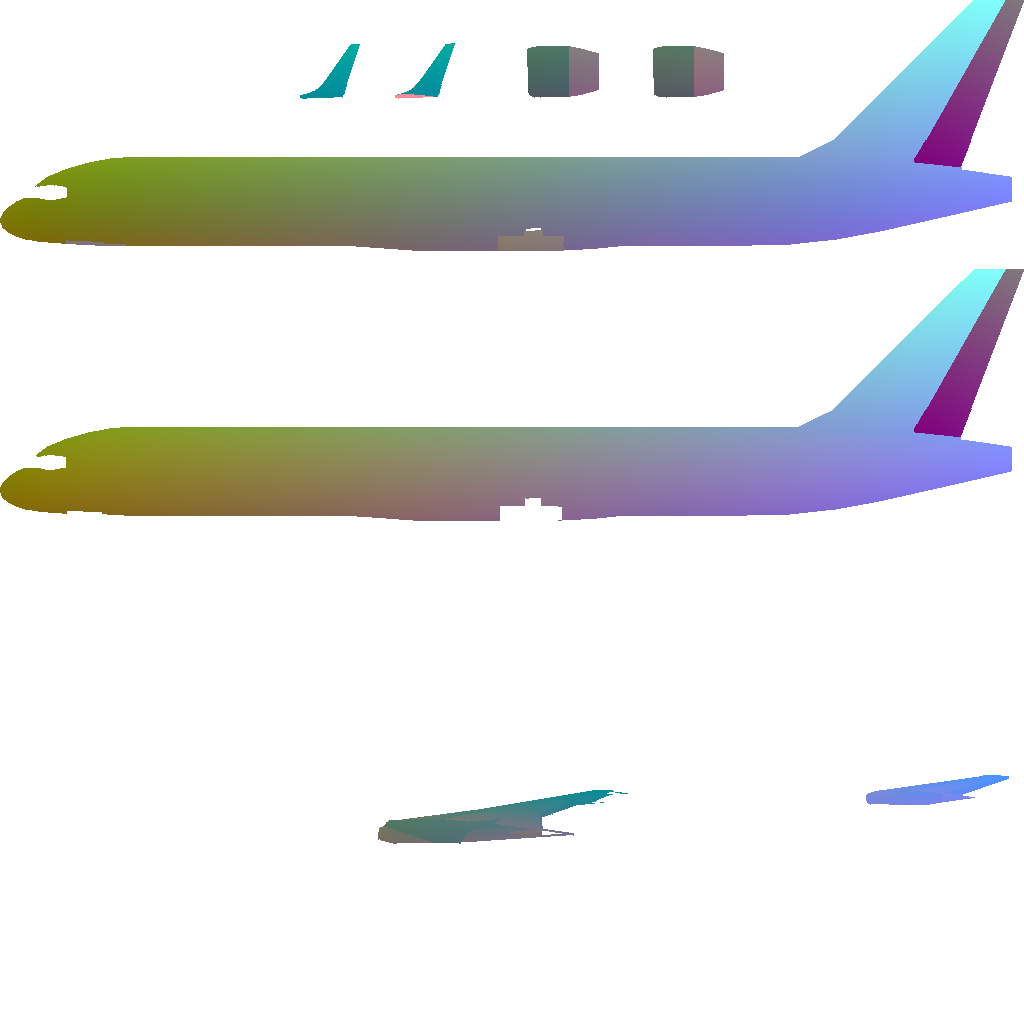
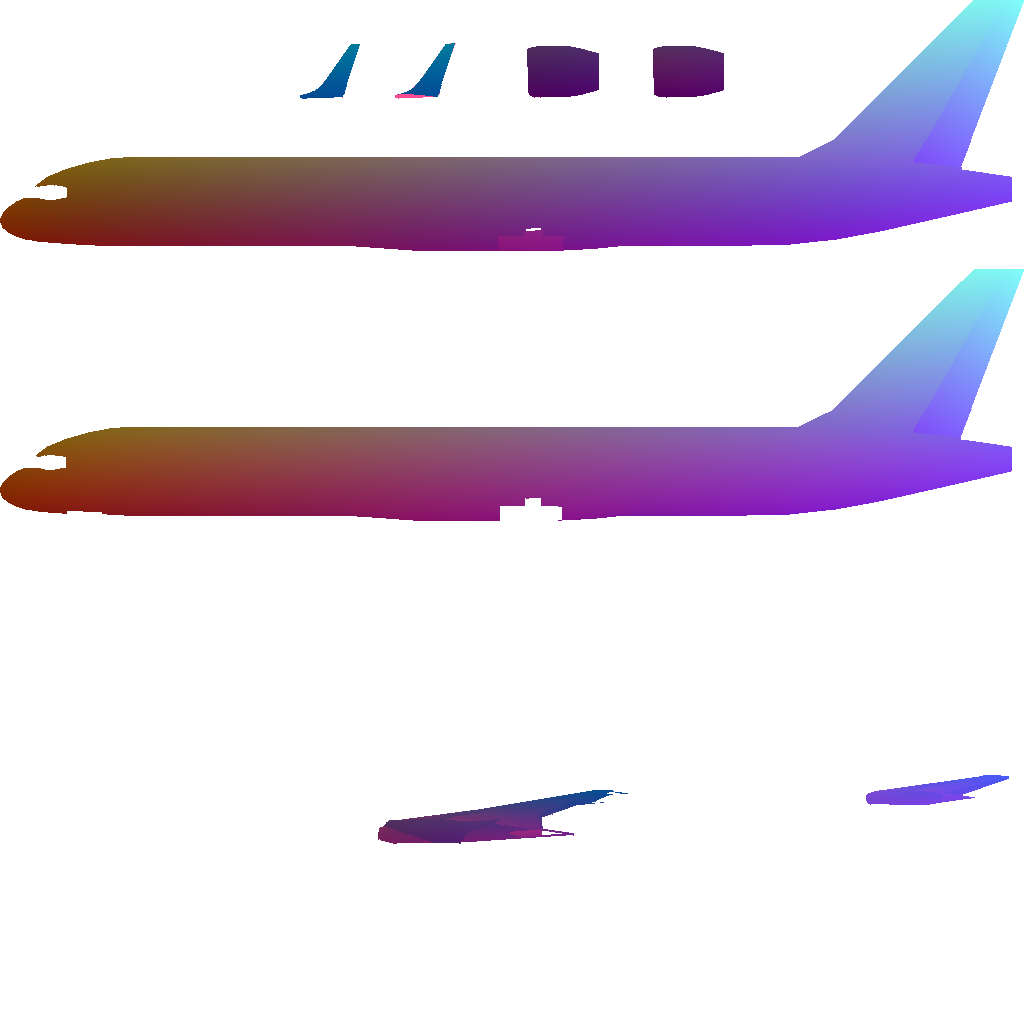
Place 757 parts at their aircraft.json positions in the geometry map

diff --git a/tools/uv_regions.py b/tools/uv_regions.py
@@ -406,9 +406,9 @@ AIRCRAFT = {
         files=[p + ".glb" for p in (
             "body", "rudder", "frontsmallleftdoor", "frontsmallrightdoor", "frontbigleftdoor",
             "frontbigrightdoor", "leftgeardoor", "rightgeardoor", "leftwingdoor",
-            "rightwingdoor", "reversers")],
+            "rightwingdoor", "reversers")] + ["aircraft.json"],
         url=GEOFS + "/backend/aircraft/repository/GXD04N_126645_238/",
-        parts=None,  # = files
+        parts=None,  # = the .glb files
         regions=B757_REGIONS,
         source="GeoFS community 757-200 GXD04N_126645_238: the 11 parts LiverySelector "
                "re-textures (body, rudder, doors, gear doors, wing doors, reversers), material "
@@ -440,8 +440,18 @@ def triangles(ac, d: Path):
     spec = AIRCRAFT[ac]
     out = []
     occluders = []
-    for f in spec["parts"] or spec["files"]:
+    offsets = {}
+    if (d / "aircraft.json").exists():
+        # GeoFS places each part at its aircraft.json position: x right, y forward, z up.
+        # Model frame here: x right, y up, z aft.
+        for part in json.loads((d / "aircraft.json").read_text())[0]["parts"]:
+            if part.get("model") and part.get("position"):
+                px, py, pz = part["position"]
+                offsets[part["model"]] = np.array([px, pz, -py], float)
+    for f in spec["parts"] or [f for f in spec["files"] if f.endswith((".glb", ".gltf"))]:
         g, prims = load_gltf1(d / f)
+        for p in prims:
+            p["pos"] = p["pos"] + offsets.get(f, 0.0)
         tex_mats = {k for k, m in g["materials"].items()
                     if isinstance(m.get("values", {}).get("diffuse"), str)
                     and "texture" in m["values"]["diffuse"]
